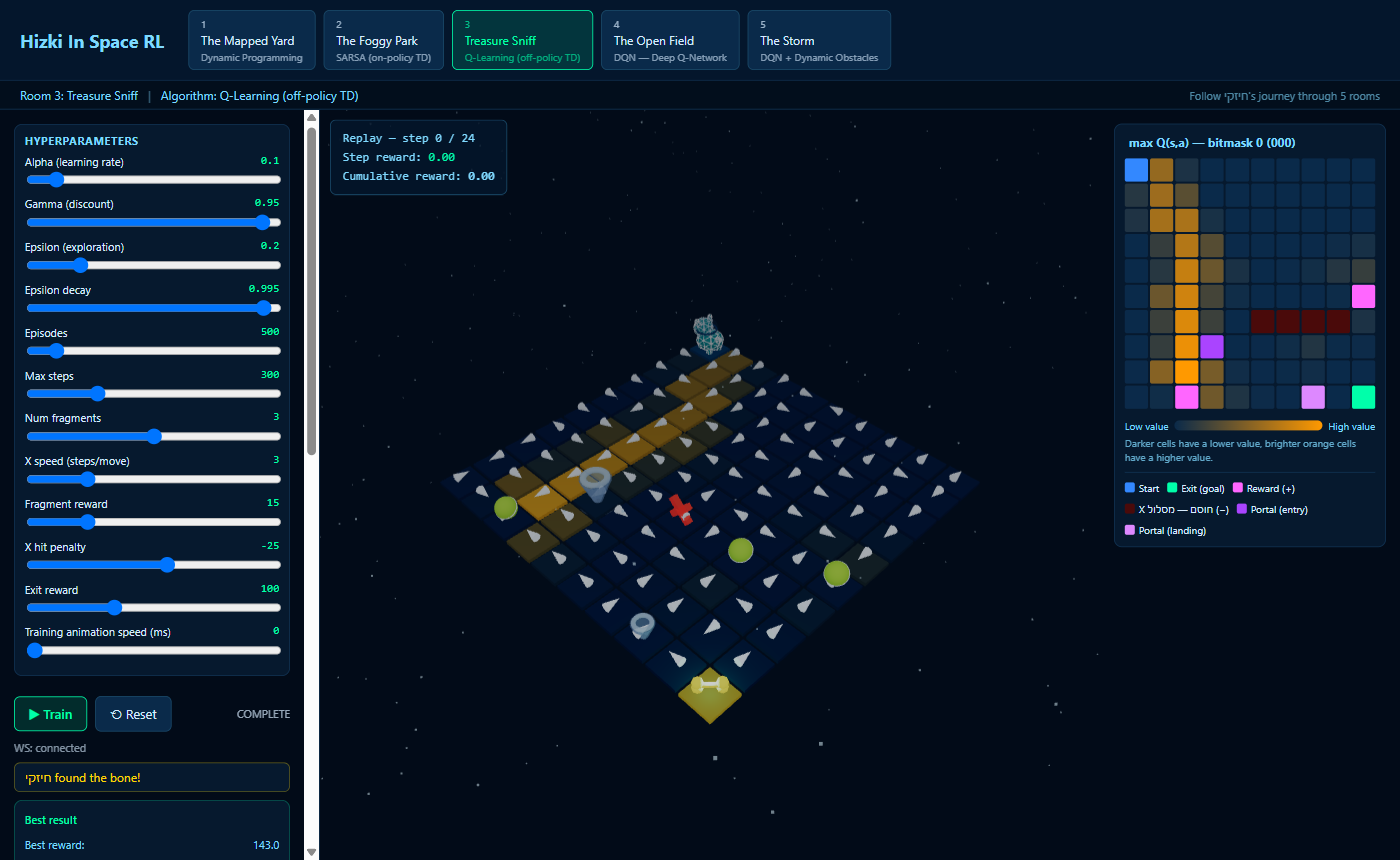
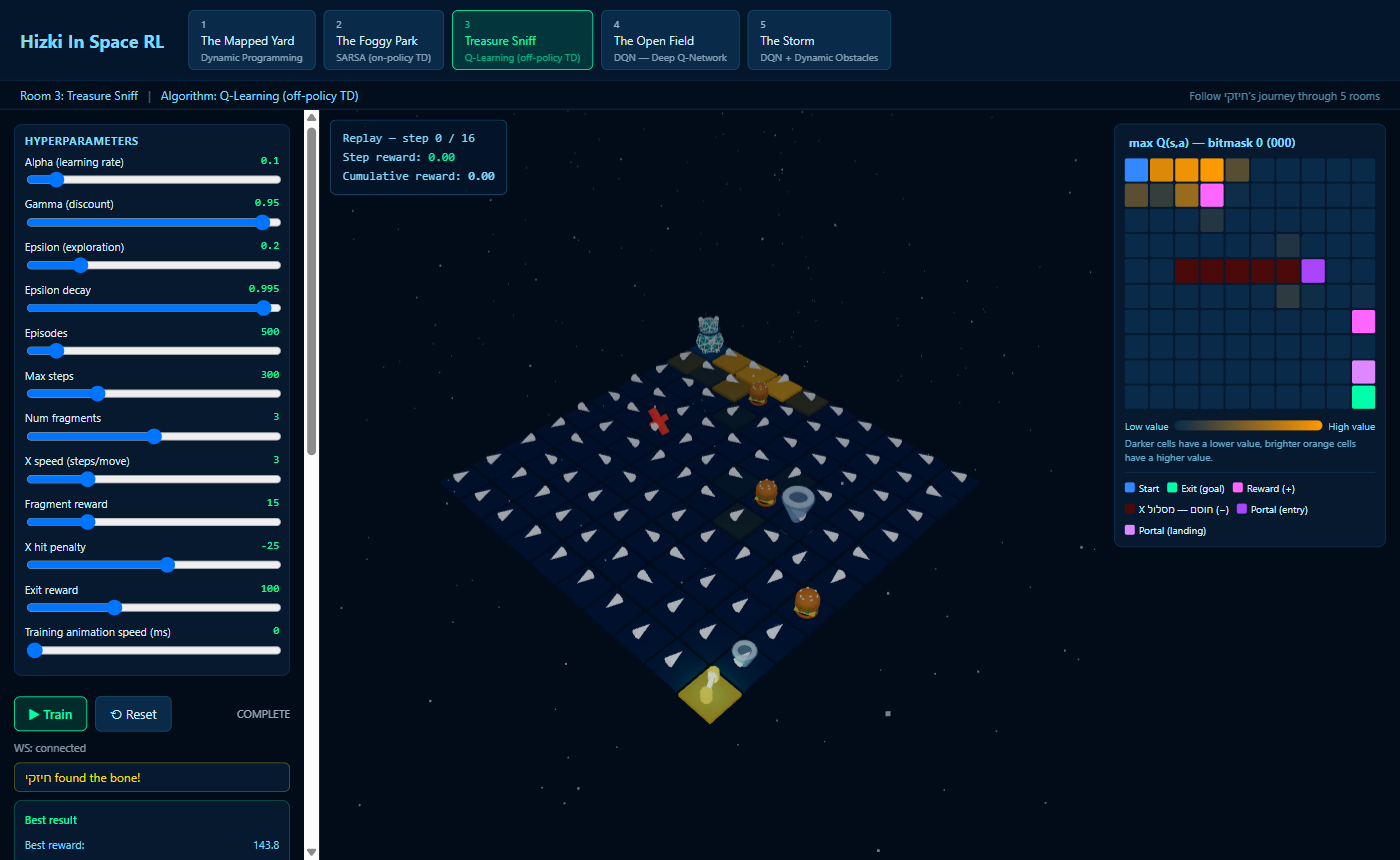
Live preview: changing object count sliders immediately updates the 3D scene
Backend: add configure_preview message — applies params + reset without training.
Room1: num_treats slider updates board live.
Room2: K_beacons slider updates key count live.
Room3: M_fragments slider updates burger count live.
Room5: n_obstacles slider updates obstacle count live.
All use 400ms debounce so fast slider drags don't spam the backend.

diff --git a/frontend/src/rooms/Room1_DP.jsx b/frontend/src/rooms/Room1_DP.jsx
@@ -111,7 +111,17 @@ export default function Room1_DP() {
     sendRef.current = send
   }, [send])
 
-  const onParamChange = (key, value) => setParams((p) => ({ ...p, [key]: value }))
+  const previewDebounceRef = useRef(null)
+  const onParamChange = (key, value) => {
+    const newParams = { ...params, [key]: value }
+    setParams(newParams)
+    if (key === 'num_treats' && status === 'idle') {
+      clearTimeout(previewDebounceRef.current)
+      previewDebounceRef.current = setTimeout(() => {
+        sendRef.current({ type: 'configure_preview', params: newParams })
+      }, 400)
+    }
+  }
 
   const onStart = () => {
     setDeltaHistory([])

diff --git a/frontend/src/rooms/Room2_SARSA.jsx b/frontend/src/rooms/Room2_SARSA.jsx
@@ -154,7 +154,17 @@ export default function Room2_SARSA() {
     sendRef.current = send
   }, [send])
 
-  const onParamChange = (key, value) => setParams((p) => ({ ...p, [key]: value }))
+  const previewDebounceRef = useRef(null)
+  const onParamChange = (key, value) => {
+    const newParams = { ...params, [key]: value }
+    setParams(newParams)
+    if (key === 'K_beacons' && status === 'idle') {
+      clearTimeout(previewDebounceRef.current)
+      previewDebounceRef.current = setTimeout(() => {
+        sendRef.current({ type: 'configure_preview', params: newParams })
+      }, 400)
+    }
+  }
 
   const onStart = () => {
     setEpisodeHistory([])

diff --git a/frontend/src/rooms/Room3_QLearning.jsx b/frontend/src/rooms/Room3_QLearning.jsx
@@ -150,7 +150,17 @@ export default function Room3_QLearning() {
     sendRef.current = send
   }, [send])
 
-  const onParamChange = (key, value) => setParams((p) => ({ ...p, [key]: value }))
+  const previewDebounceRef = useRef(null)
+  const onParamChange = (key, value) => {
+    const newParams = { ...params, [key]: value }
+    setParams(newParams)
+    if (key === 'M_fragments' && status === 'idle') {
+      clearTimeout(previewDebounceRef.current)
+      previewDebounceRef.current = setTimeout(() => {
+        sendRef.current({ type: 'configure_preview', params: newParams })
+      }, 400)
+    }
+  }
 
   const onStart = () => {
     setEpisodeHistory([])

diff --git a/frontend/src/rooms/Room5_Storm.jsx b/frontend/src/rooms/Room5_Storm.jsx
@@ -133,7 +133,17 @@ export default function Room5_Storm() {
   const { send, connected } = useWebSocket(5, handleMessage)
   useEffect(() => { sendRef.current = send }, [send])
 
-  const onParamChange = (key, value) => setParams((p) => ({ ...p, [key]: value }))
+  const previewDebounceRef = useRef(null)
+  const onParamChange = (key, value) => {
+    const newParams = { ...params, [key]: value }
+    setParams(newParams)
+    if (key === 'n_obstacles' && status === 'idle') {
+      clearTimeout(previewDebounceRef.current)
+      previewDebounceRef.current = setTimeout(() => {
+        sendRef.current({ type: 'configure_preview', params: newParams })
+      }, 400)
+    }
+  }
 
   const onStart = () => {
     setEpisodeHistory([])

diff --git a/backend/main.py b/backend/main.py
@@ -84,6 +84,15 @@ async def websocket_endpoint(websocket: WebSocket, room_id: int):
                 info = room.map_info() if hasattr(room, "map_info") else {}
                 await websocket.send_json({"type": "reset_complete", **info})
 
+            elif msg_type == "configure_preview":
+                # Apply params + reset layout without starting training.
+                # Used for live visual feedback when structural params change.
+                if not (train_task and not train_task.done()):
+                    room.configure(data.get("params", {}))
+                    room.reset()
+                    info = room.map_info() if hasattr(room, "map_info") else {}
+                    await websocket.send_json({"type": "reset_complete", **info})
+
             elif msg_type == "get_replay":
                 replay = room.get_replay(data.get("episode", 0))
                 await websocket.send_json({"type": "replay_data", **replay})